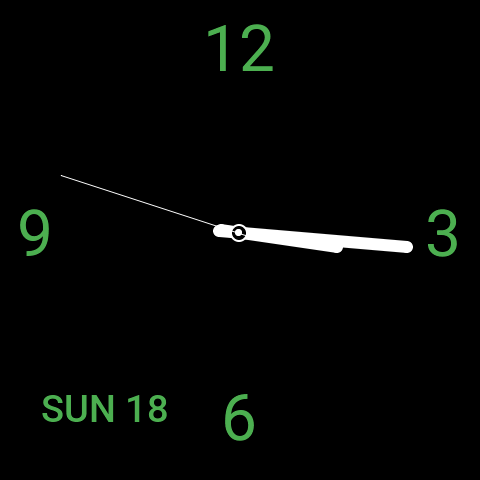
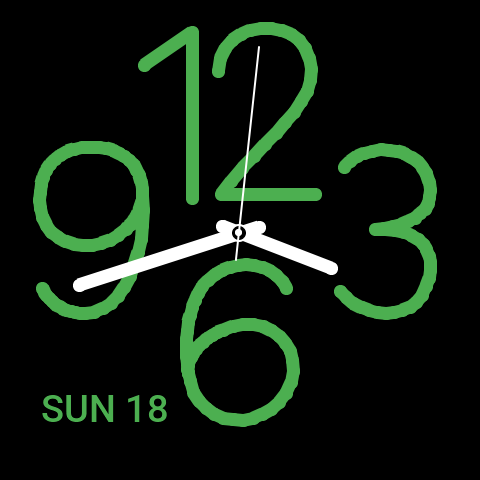
Update verified large-numeral preview images [skip ci]

Changed region(s): [[0.0312, 0.0312, 0.9688, 0.9375], [0.1562, 0.375, 0.25, 0.4062]]

diff --git a/docs/VALIDATION.md b/docs/VALIDATION.md
@@ -20,6 +20,14 @@ code generation from standard upstream URLs. Its 80 screenshots cover eight scen
 CYD, Guition 4-inch, both 7-inch models and the 10.1-inch model. Fork-only timer and live-settings tests are no longer
 part of validation. Physical device checks remain necessary; a desktop render is not a hardware test.
 
+### Completed 0.4.2 validation
+
+The current vector-numeral version passed [CI run 39087252954](https://github.com/dark-matter-design/tessera-watch-clock-screensaver/actions/runs/39087252954)
+for source revision `48c84fc` on 18 October 2026 (Australia/Sydney): all five strict upstream firmware benches,
+the numeral stroke-bound tests, API 0.14 manifest checks, upstream ESP32 code generation and store-image generation.
+The combined report has 80 screenshots and zero findings. The smallest and largest screens, both themes, the
+square-screen face and store image were visually reviewed. The current committed PNGs come from this run.
+
 ### Previous 0.4.1 validation
 
 On 18 October 2026 (Australia/Sydney), [CI run 39085654714](https://github.com/dark-matter-design/tessera-watch-clock-screensaver/actions/runs/39085654714)
